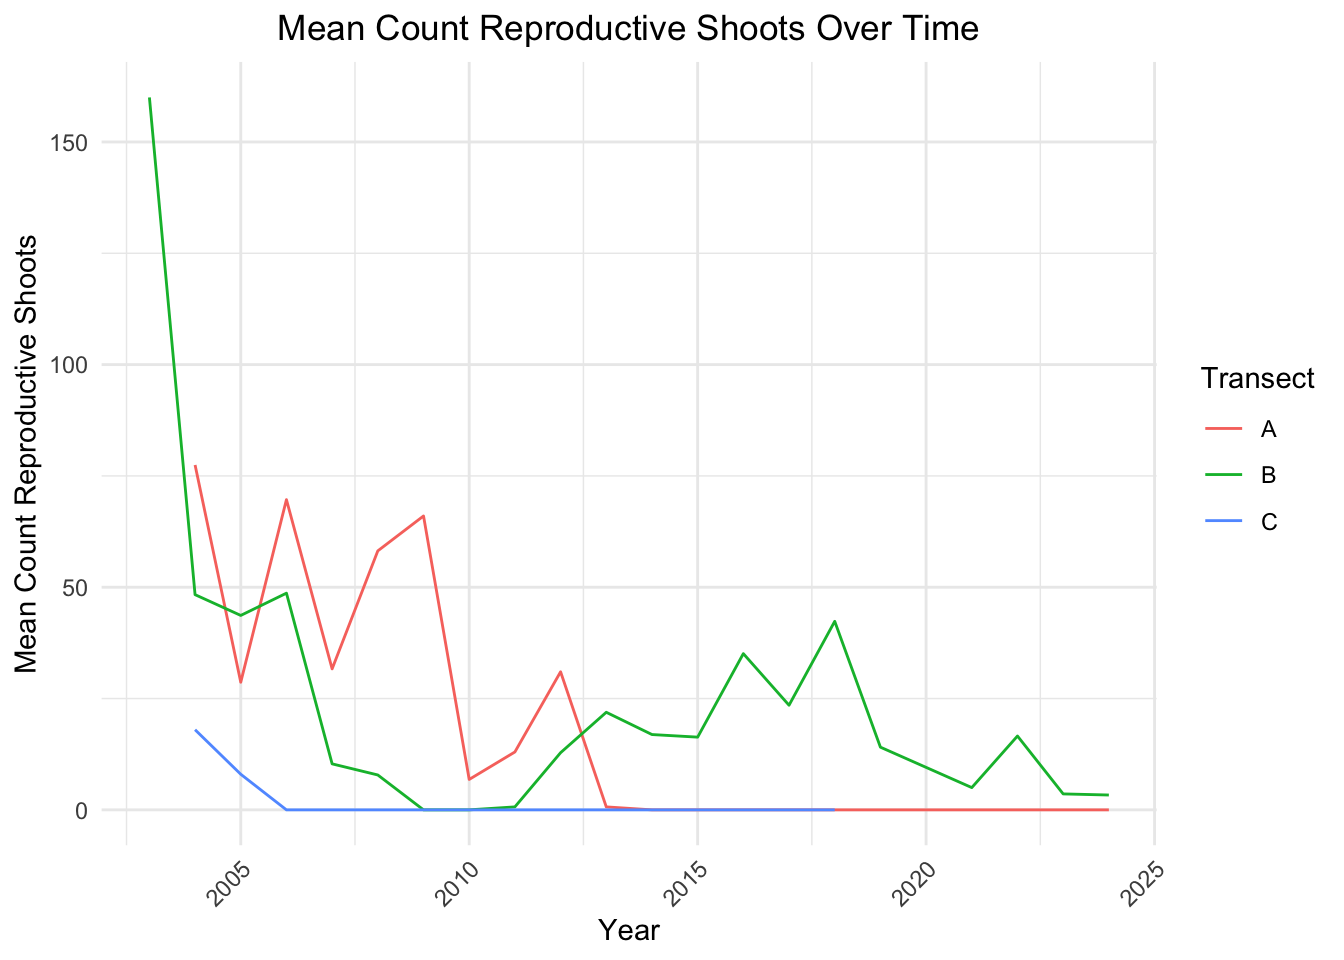
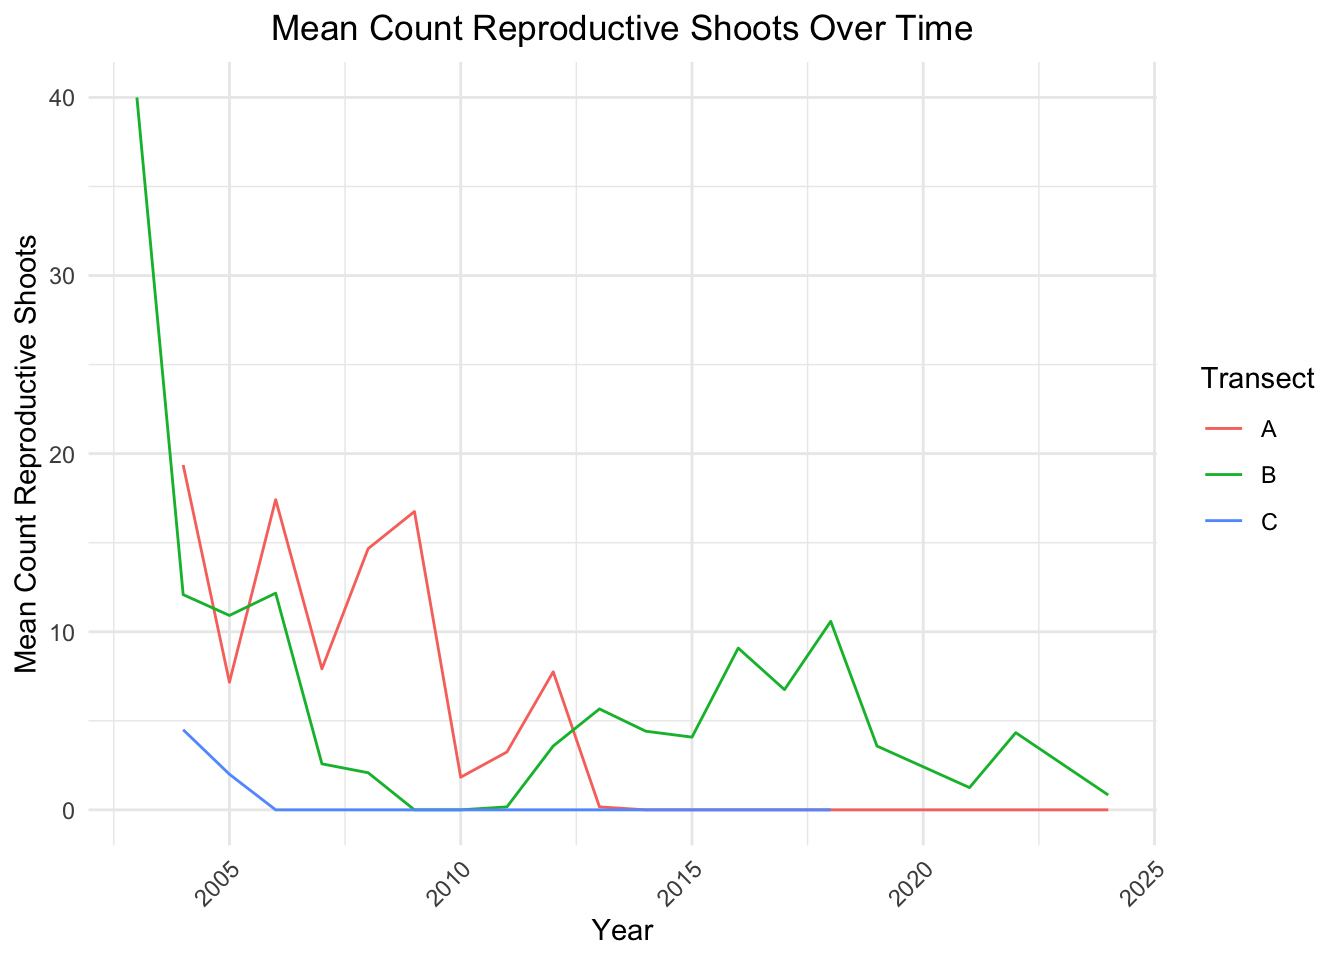
Removed: Falsely scaled repro shoot counts up by 4 when only 1/4 of plot density was measured. It appears all fruits were counted even when only 1/4 of total shoots was recorded.

diff --git a/quarto_docs/nps_eelgrass_monitor.html b/quarto_docs/nps_eelgrass_monitor.html
@@ -179,16 +179,12 @@ pre > code.sourceCode > span > a:first-child::before { text-decoration: underlin
 <span id="cb4-25"><a href="#cb4-25" aria-hidden="true" tabindex="-1"></a><span class="co"># a few inconsistencies. Standardize by making all NA where Percent_Cover == 0</span></span>
 <span id="cb4-26"><a href="#cb4-26" aria-hidden="true" tabindex="-1"></a>  <span class="fu">mutate</span>(<span class="at">Density_Source =</span> <span class="fu">ifelse</span>(Percent_Cover <span class="sc">==</span> <span class="dv">0</span>, <span class="cn">NA</span>, Density_Source),</span>
 <span id="cb4-27"><a href="#cb4-27" aria-hidden="true" tabindex="-1"></a>         <span class="at">Wasting =</span> <span class="fu">ifelse</span>(Percent_Cover <span class="sc">==</span> <span class="dv">0</span>, <span class="cn">NA</span>, Wasting),</span>
-<span id="cb4-28"><a href="#cb4-28" aria-hidden="true" tabindex="-1"></a><span class="co"># Scale reproductive shoot counts according to Density_Source         </span></span>
-<span id="cb4-29"><a href="#cb4-29" aria-hidden="true" tabindex="-1"></a>         <span class="at">Reproductive_Shoots =</span> <span class="fu">ifelse</span>(Density_Source <span class="sc">%in%</span> <span class="fu">c</span>(<span class="st">"BL"</span>, <span class="st">"BR"</span>, <span class="st">"TL"</span>, <span class="st">"TR"</span>),</span>
-<span id="cb4-30"><a href="#cb4-30" aria-hidden="true" tabindex="-1"></a>                                      Reproductive_Shoots <span class="sc">*</span> <span class="dv">4</span>,</span>
-<span id="cb4-31"><a href="#cb4-31" aria-hidden="true" tabindex="-1"></a>                                      Reproductive_Shoots),</span>
-<span id="cb4-32"><a href="#cb4-32" aria-hidden="true" tabindex="-1"></a><span class="co"># Create separate columns for Wasting == c(High, Low, Tr, NA) in order to summarize n()</span></span>
-<span id="cb4-33"><a href="#cb4-33" aria-hidden="true" tabindex="-1"></a>         <span class="at">wasting_high =</span> <span class="fu">ifelse</span>(Wasting <span class="sc">==</span> <span class="st">"High"</span>, <span class="dv">1</span>, <span class="dv">0</span>),</span>
-<span id="cb4-34"><a href="#cb4-34" aria-hidden="true" tabindex="-1"></a>         <span class="at">wasting_low =</span> <span class="fu">ifelse</span>(Wasting <span class="sc">==</span> <span class="st">"Low"</span>, <span class="dv">1</span>, <span class="dv">0</span>),</span>
-<span id="cb4-35"><a href="#cb4-35" aria-hidden="true" tabindex="-1"></a>         <span class="at">wasting_trace =</span> <span class="fu">ifelse</span>(Wasting <span class="sc">==</span> <span class="st">"Tr"</span>, <span class="dv">1</span>, <span class="dv">0</span>),</span>
-<span id="cb4-36"><a href="#cb4-36" aria-hidden="true" tabindex="-1"></a>         <span class="at">wasting_none =</span> <span class="fu">ifelse</span>(Wasting <span class="sc">==</span> <span class="st">"0"</span>, <span class="dv">1</span>, <span class="dv">0</span>)</span>
-<span id="cb4-37"><a href="#cb4-37" aria-hidden="true" tabindex="-1"></a>)</span></code><button title="Copy to Clipboard" class="code-copy-button"><i class="bi"></i></button></pre></div>
+<span id="cb4-28"><a href="#cb4-28" aria-hidden="true" tabindex="-1"></a><span class="co"># Create separate columns for Wasting == c(High, Low, Tr, NA) in order to summarize n()</span></span>
+<span id="cb4-29"><a href="#cb4-29" aria-hidden="true" tabindex="-1"></a>         <span class="at">wasting_high =</span> <span class="fu">ifelse</span>(Wasting <span class="sc">==</span> <span class="st">"High"</span>, <span class="dv">1</span>, <span class="dv">0</span>),</span>
+<span id="cb4-30"><a href="#cb4-30" aria-hidden="true" tabindex="-1"></a>         <span class="at">wasting_low =</span> <span class="fu">ifelse</span>(Wasting <span class="sc">==</span> <span class="st">"Low"</span>, <span class="dv">1</span>, <span class="dv">0</span>),</span>
+<span id="cb4-31"><a href="#cb4-31" aria-hidden="true" tabindex="-1"></a>         <span class="at">wasting_trace =</span> <span class="fu">ifelse</span>(Wasting <span class="sc">==</span> <span class="st">"Tr"</span>, <span class="dv">1</span>, <span class="dv">0</span>),</span>
+<span id="cb4-32"><a href="#cb4-32" aria-hidden="true" tabindex="-1"></a>         <span class="at">wasting_none =</span> <span class="fu">ifelse</span>(Wasting <span class="sc">==</span> <span class="st">"0"</span>, <span class="dv">1</span>, <span class="dv">0</span>)</span>
+<span id="cb4-33"><a href="#cb4-33" aria-hidden="true" tabindex="-1"></a>)</span></code><button title="Copy to Clipboard" class="code-copy-button"><i class="bi"></i></button></pre></div>
 </details>
 </div>
 </section>
